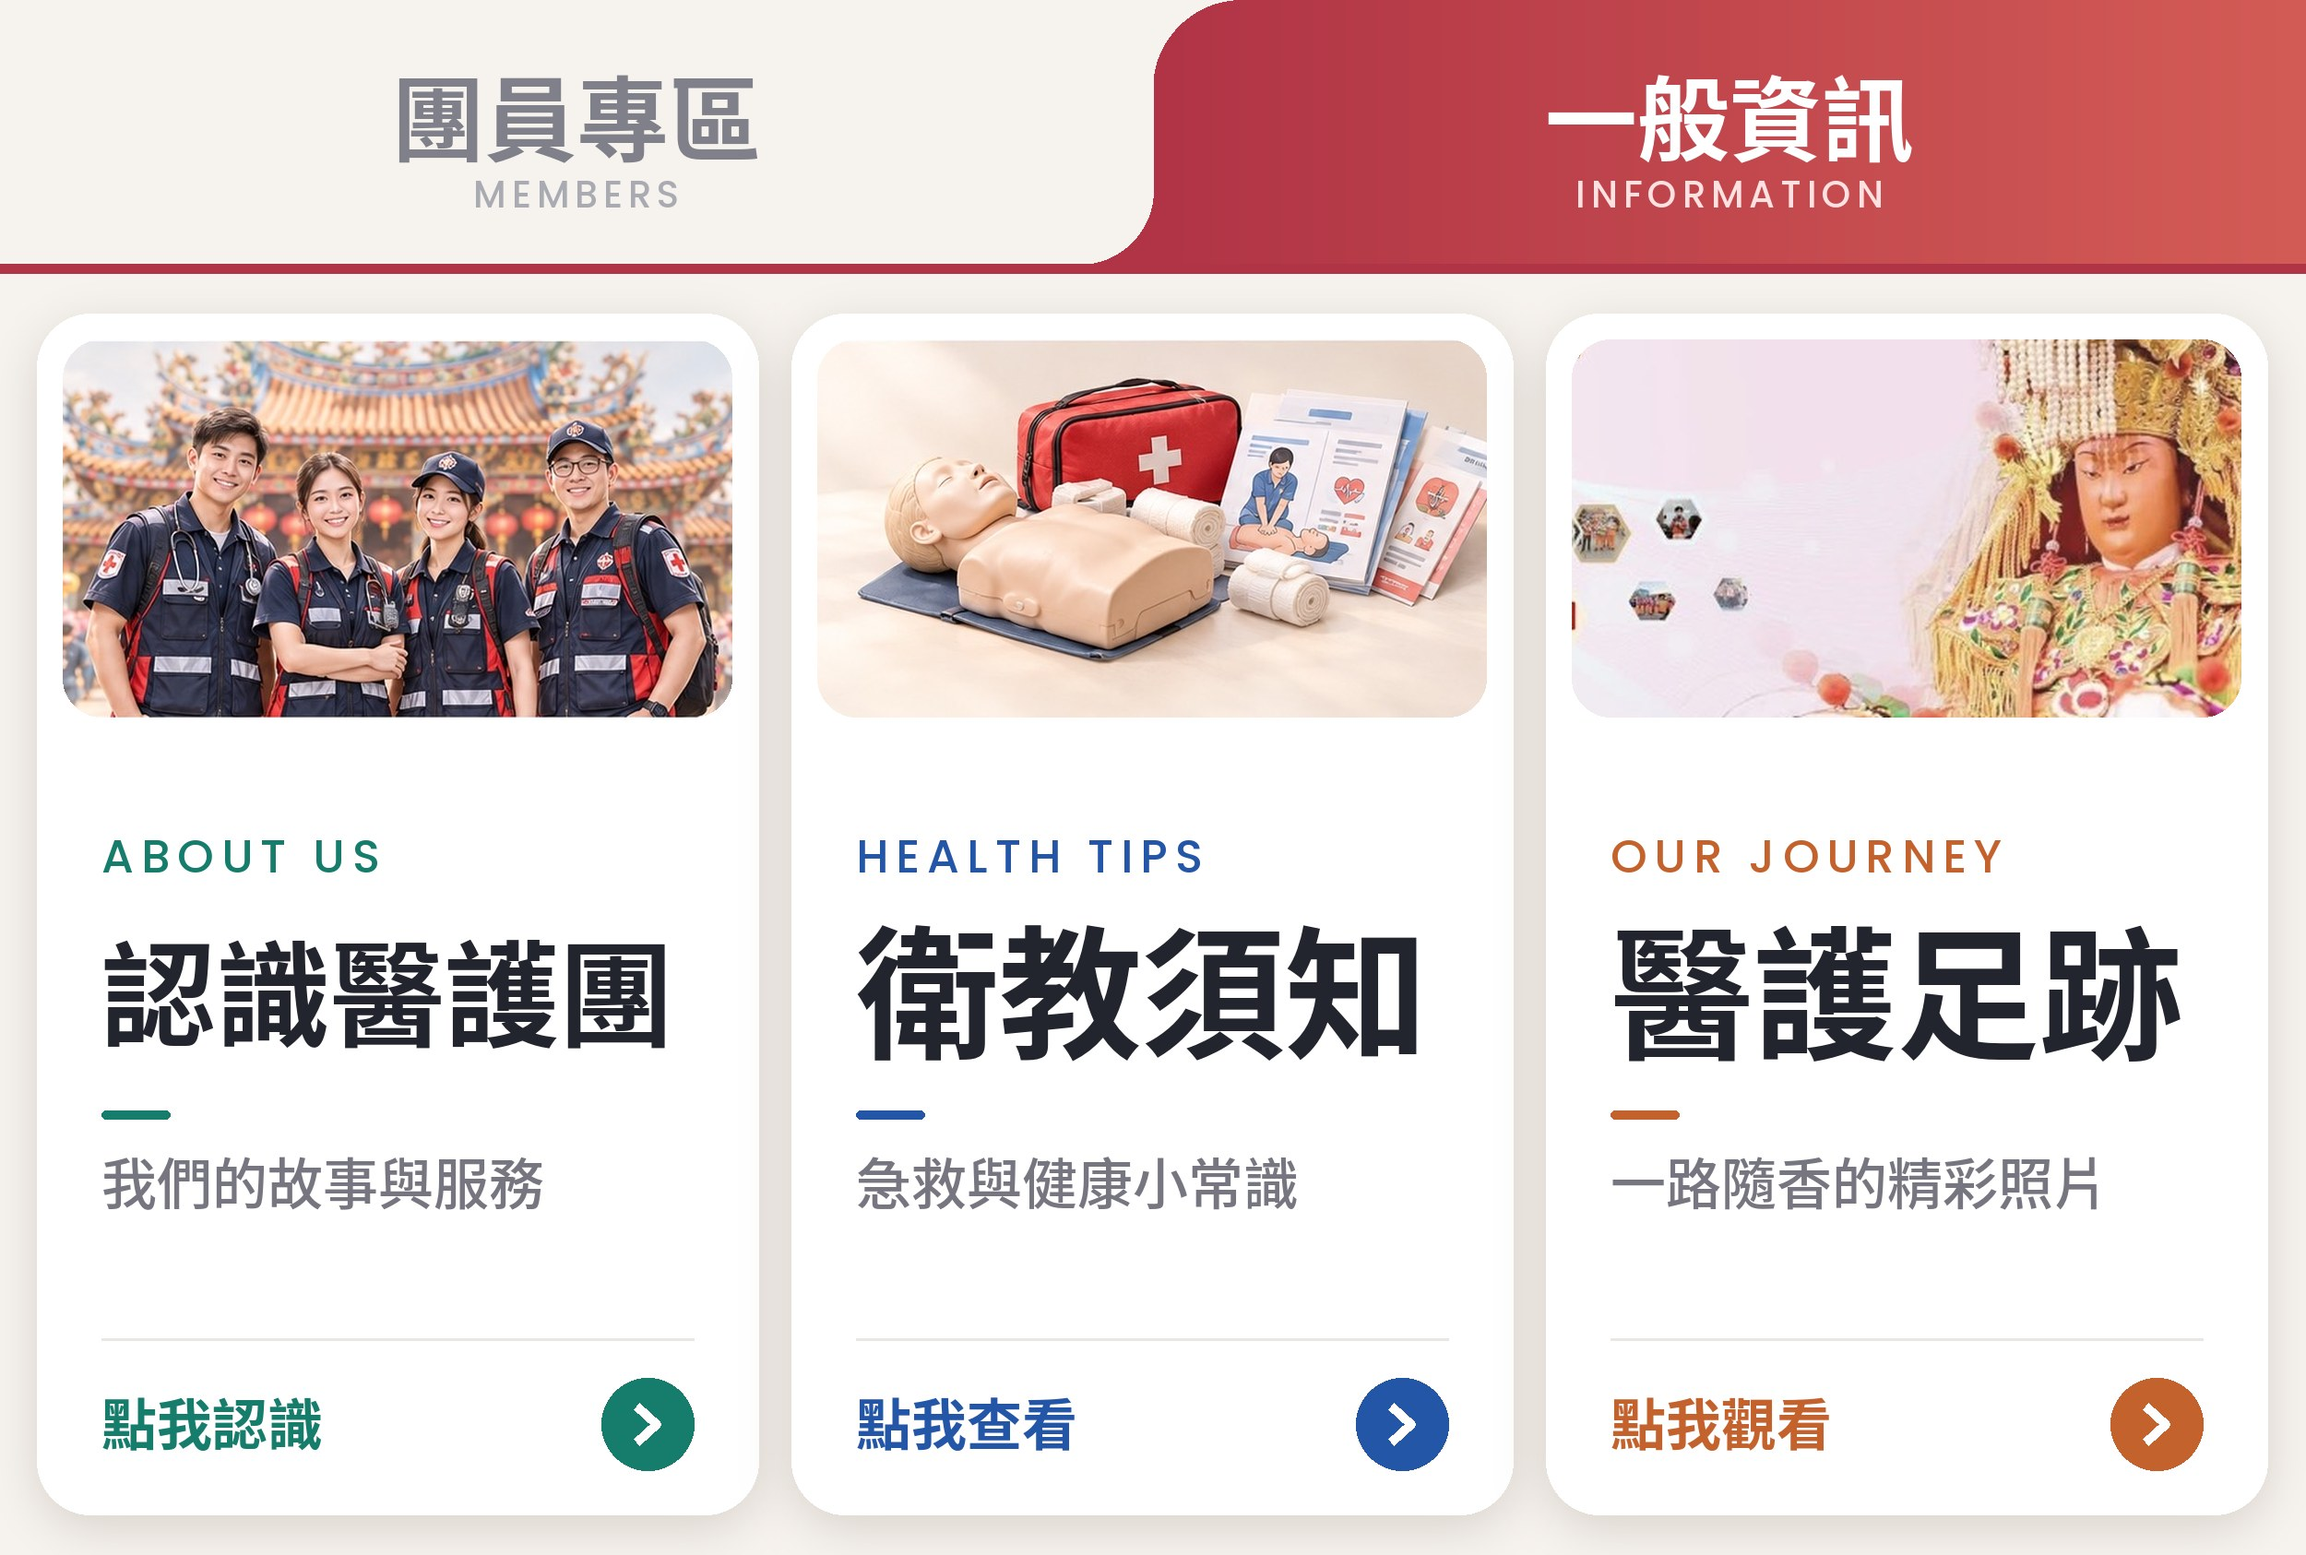
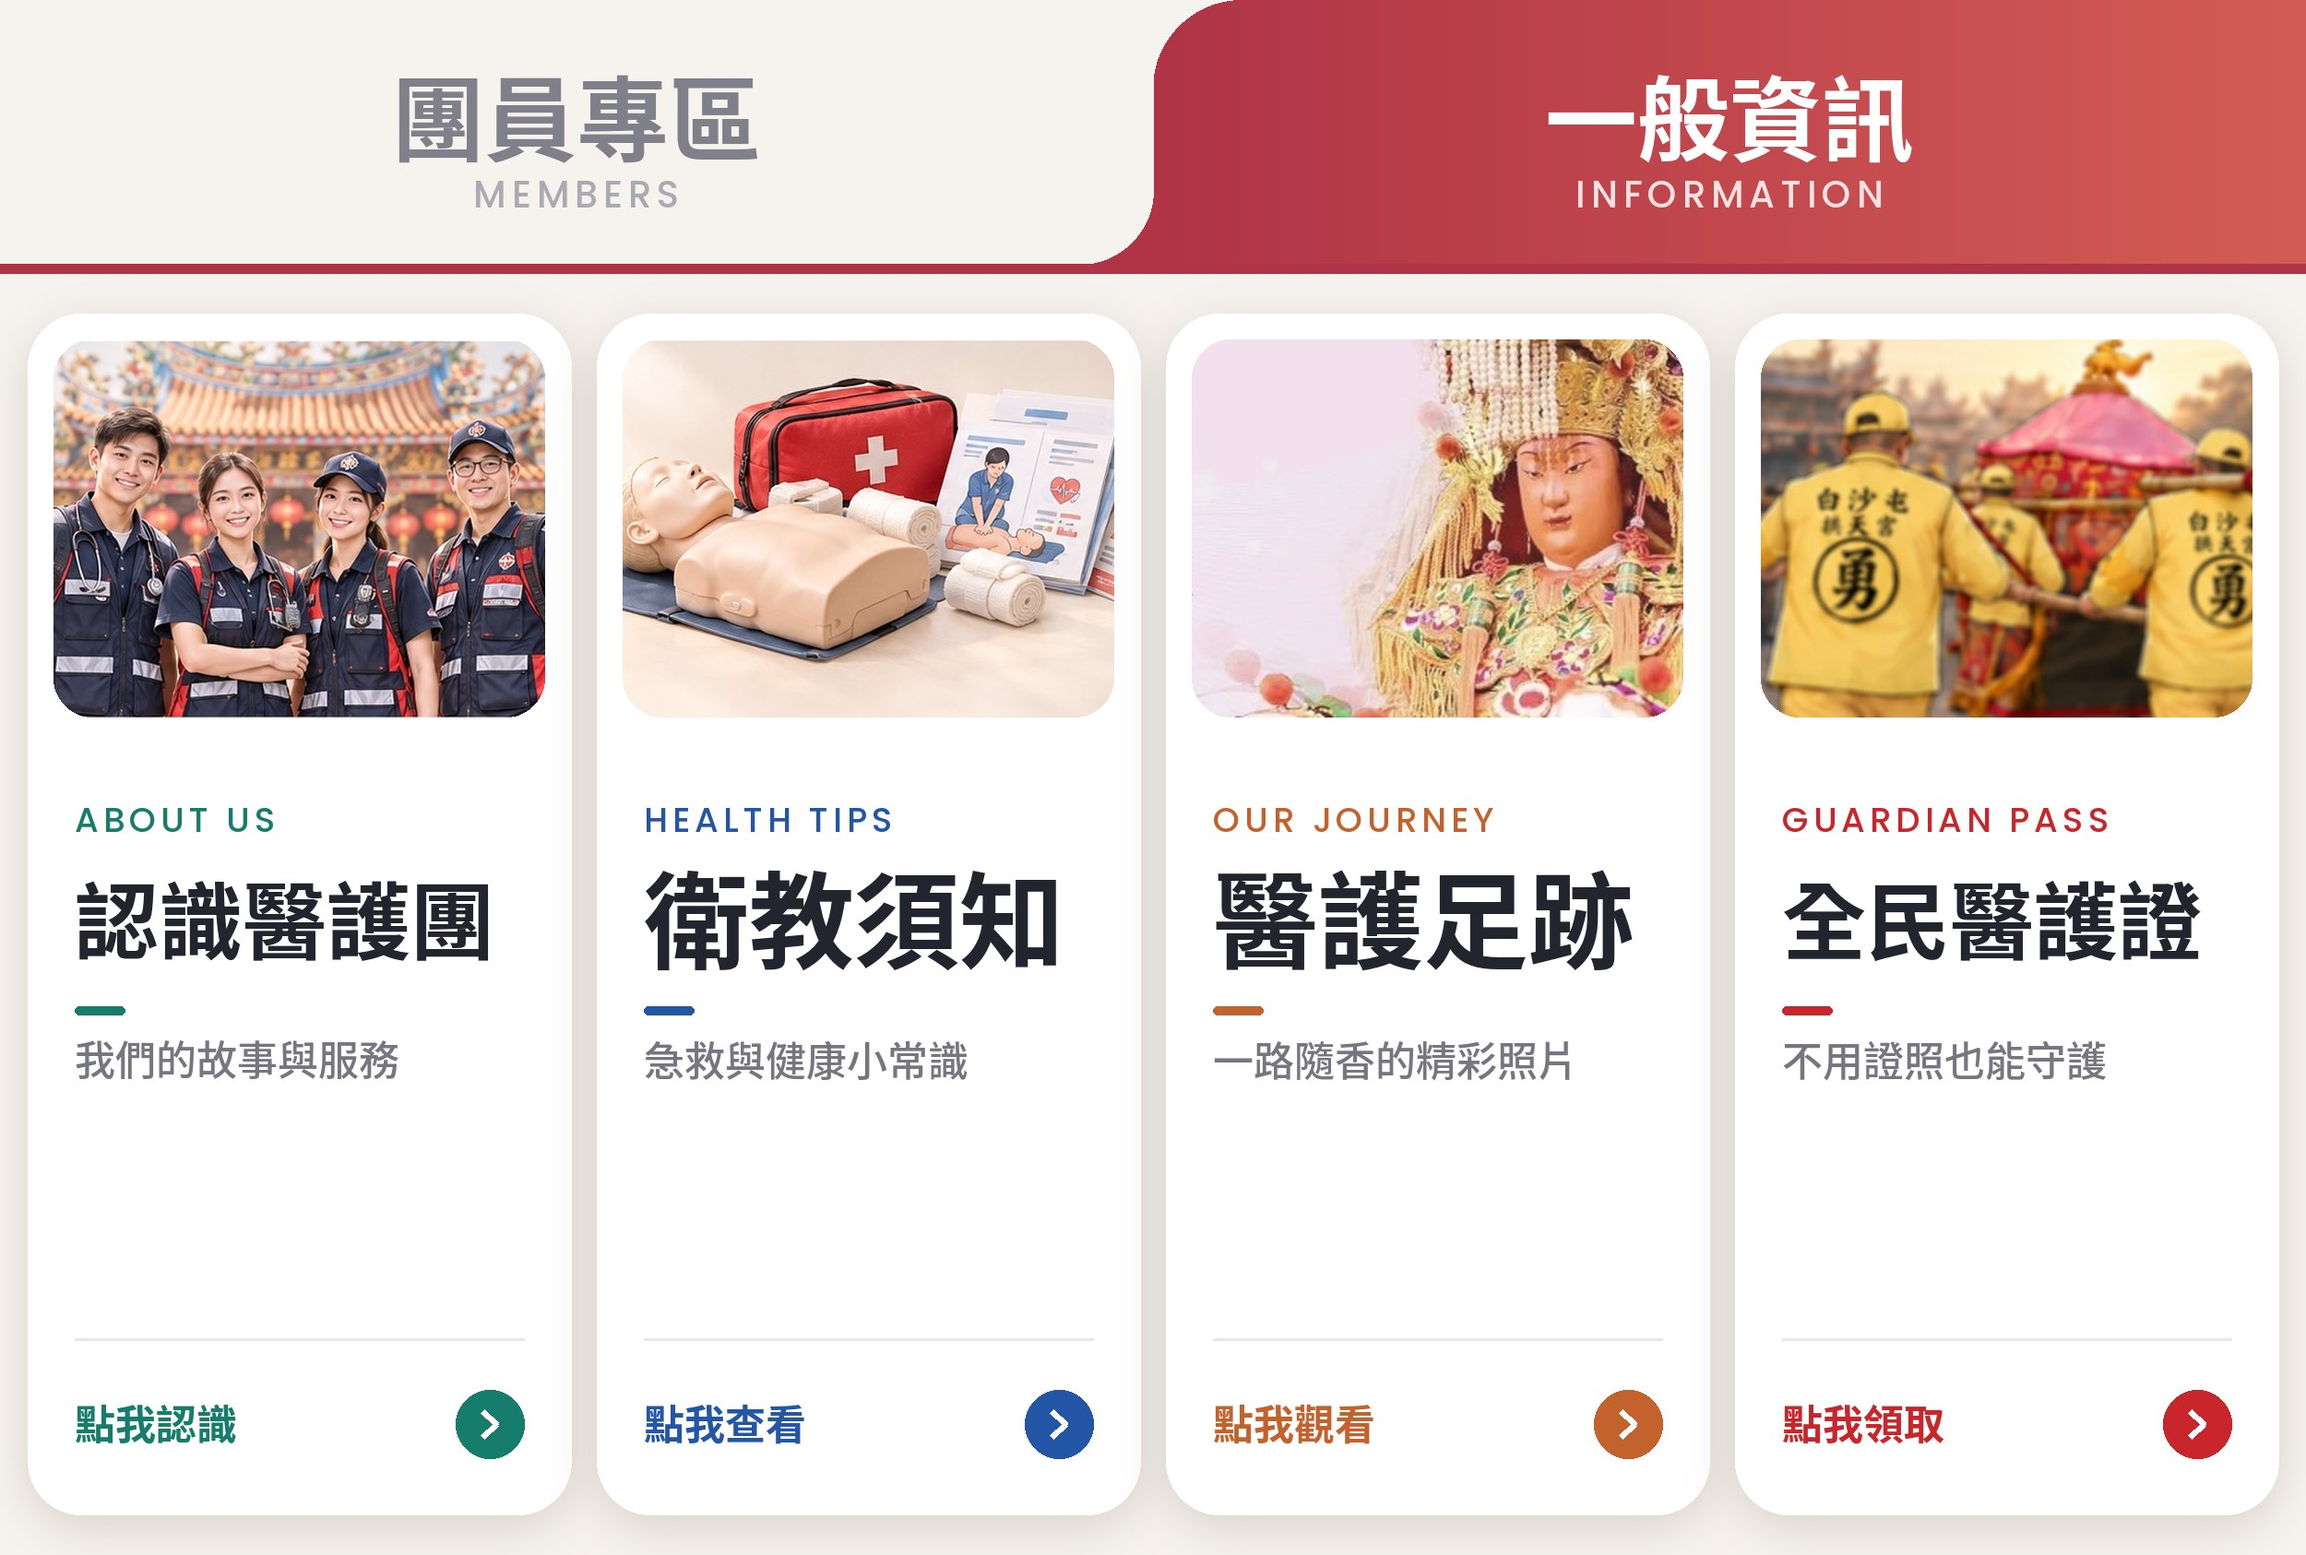
圖文選單一般資訊加「全民醫護證」，點了回覆領證卡片
Claude-Session: https://claude.ai/code/session_01UgnuMUR9BFixKJirFzAXJh

diff --git a/security/worker.js b/security/worker.js
@@ -161,18 +161,19 @@ const LIFF = id => 'https://liff.line.me/' + id;
 // 團員兩頁上方 286px 是分頁列（左 團員專區、右 一般資訊）；一般民眾上方是標題列（整張卡都可按）；下面一排三張直卡
 const MW = 2500, MH = 1686, TAB = 286;
 const grid3 = (acts, top) => acts.map((a, i) => {
-  const cw = Math.floor(MW / 3), x = i * cw;
-  return { bounds: { x, y: top, width: i === 2 ? MW - x : cw, height: MH - top }, action: a };
+  const n = acts.length, cw = Math.floor(MW / n), x = i * cw;   // 依按鈕數平均切（3 格或 4 格）
+  return { bounds: { x, y: top, width: i === n - 1 ? MW - x : cw, height: MH - top }, action: a };
 });
 const tabs = () => [
   { bounds: { x: 0, y: 0, width: MW / 2, height: TAB }, action: { type: 'richmenuswitch', richMenuAliasId: 'bst-member', data: 'tab=member' } },
   { bounds: { x: MW / 2, y: 0, width: MW / 2, height: TAB }, action: { type: 'richmenuswitch', richMenuAliasId: 'bst-member-b', data: 'tab=public' } },
 ];
-// 一般民眾也看得到的三格：按下去會在聊天室送出這句話，內容請在 LINE 官方帳號後台設定「關鍵字自動回應」
+// 一般民眾也看得到的四格：按下去會在聊天室送出這句話，內容請在 LINE 官方帳號後台設定「關鍵字自動回應」
 const PUBLIC = [
   { type: 'message', label: '認識醫護團', text: '認識醫護團' },
   { type: 'message', label: '衛教須知', text: '衛教須知' },
   { type: 'message', label: '醫護足跡', text: '醫護足跡' },
+  { type: 'message', label: '全民醫護證', text: '全民醫護證' },
 ];
 const MEMBER = [
   { type: 'uri', label: '會員中心', uri: LIFF('2011820105-x1KU6xLW') },
@@ -344,6 +345,7 @@ const EDU = [
     ] },
 ];
 const REPLIES = {
+  '全民醫護證': (env, origin) => shareFlex(EDU_CARDS.guardian, origin),
   '醫護足跡': async (env, origin) => {
     let photos = [];
     try { photos = (await fsList(await saToken(env), 'journey')).sort((x, y) => (x.order ?? 0) - (y.order ?? 0)); } catch (e) {}

diff --git a/member/index.html b/member/index.html
@@ -3353,7 +3353,7 @@
   // 發佈 LINE 圖文選單（只有最高管理員）：建立訪客／團員兩種選單，再把所有已開通的人換成團員選單
   $('btn-richmenu').onclick = async () => {
     if (!user || user.role !== 'admin') return toast('只有最高管理員（全部系統）可以發佈');
-    const ok = await dialog({ title: '發佈 LINE 圖文選單？', msg: '會建立 LINE 圖文選單：\n・一般民眾：認識醫護團／衛教須知／醫護足跡\n・團員：兩頁可左右切換\n　「團員專區」會員中心／救護紀錄表／倉儲管理\n　「一般資訊」同一般民眾那頁\n\n之後審核、停權、踢出都會自動切換。', okText: '發佈' });
+    const ok = await dialog({ title: '發佈 LINE 圖文選單？', msg: '會建立 LINE 圖文選單：\n・一般民眾：認識醫護團／衛教須知／醫護足跡／全民醫護證\n・團員：兩頁可左右切換\n　「團員專區」會員中心／救護紀錄表／倉儲管理\n　「一般資訊」同一般民眾那頁\n\n之後審核、停權、踢出都會自動切換。', okText: '發佈' });
     if (!ok) return;
     const btn = $('btn-richmenu'); btn.disabled = true; btn.textContent = '發佈中…';
     try {
